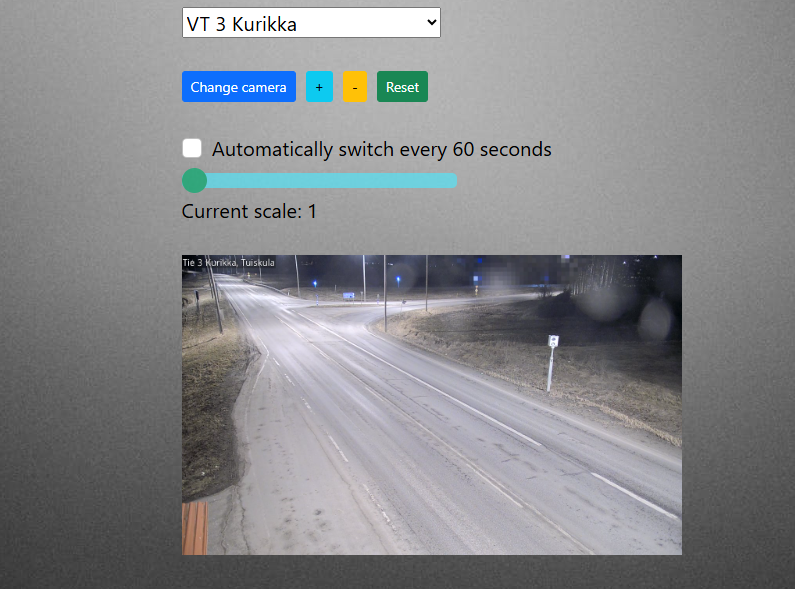
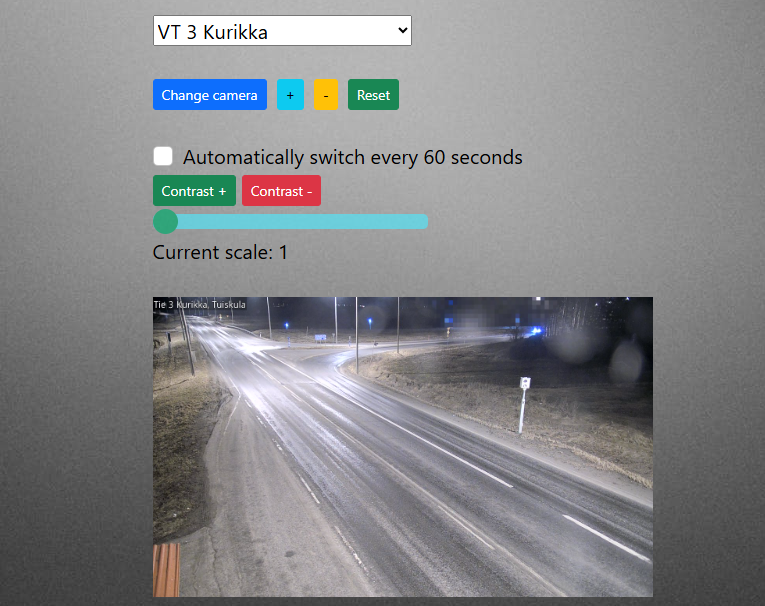
contrast feature added to weather cameras

diff --git a/src/pages/weatherCamera.js b/src/pages/weatherCamera.js
@@ -14,6 +14,8 @@ function WeatherCam() {
     var [camHeight, setCamHeight] = useState(300)
     var [scale, setScale] = useState(1.0)
     var slid = document.getElementById("zoomRng")
+    var [contrast,setContrast]=useState(100)
+    var [hideStopBtn,setHideStopBtn]=useState(true)
     const intervalRef = useRef(null)
    
 
@@ -60,18 +62,10 @@ function WeatherCam() {
     const sliderMove = () => {
         document.getElementById("sliderval").innerText = slid.value
         setScale(scale = slid.value)
-
     }
-    const executeChange = () => {
-        document.getElementById("cameraChange").click()
-
-    }
-
-
-
-
     const automateChange = () => {
 
+        setHideStopBtn(!hideStopBtn)
         intervalRef.current=setInterval(() => {
             document.getElementById("cameraChange").click()
             
@@ -80,6 +74,10 @@ function WeatherCam() {
 
     }
     const stopChange = () => {
+        //poistaa checkboksin valinnan
+        const cb=document.getElementById("automChangeCB")
+        cb.checked=false
+        //pysäyttää intervallin
         clearInterval(intervalRef.current);
         intervalRef.current = null;
     }
@@ -104,7 +102,8 @@ function WeatherCam() {
                 <input class="form-check-input" type="checkbox" id="automChangeCB" onClick={automateChange}></input>
                 <label class="form-check-label" for="automChangeCB">Automatically switch every 60 seconds</label>
             </div>
-            <button onClick={stopChange}>stop</button>
+            <button class="btn btn-success btn-sm" onClick={()=>setContrast(contrast+10)}>Contrast +</button> <button class="btn btn-danger btn-sm" onClick={()=>setContrast(contrast-10)}>Contrast -</button>
+            <button class="btn btn-danger btn-sm" hidden={hideStopBtn} onClick={stopChange}>stop</button>
             <div class="slidecontainer">
                 <input type="range" min="1" max="3" step={0.1} defaultValue={1} class="slider" id="zoomRng" onInput={sliderMove}></input>
                 <br></br>
@@ -112,7 +111,7 @@ function WeatherCam() {
                 <span id="sliderval"></span>
             </div>
             <br></br>
-            <img id="camImg" style={{ transform: "scale(" + scale + ")" }} width={camWidth} height={camHeight} alt="camera" src={'empty'}></img>
+            <img id="camImg" style={{ transform: "scale(" + scale + ")",filter:"contrast("+contrast+"%)"}} width={camWidth} height={camHeight} alt="camera" src={'empty'}></img>
 
         </div>
     )

diff --git a/README.md b/README.md
@@ -109,7 +109,8 @@ An example picture where the user has selected a road camera from the html selec
 
 The user can also zoom in on the weather camera image using the HTML slider component. The slider component has a minimum value of 1, a maximum value of 3, and a step between values of 0.1. The slider component changes the CSS value of the img element's transformation scale. The value is stored in the State variable and passed to the img element's style property.
 
-By selecting the "Switch automatically every 60 seconds" checkbox, the user can automate the camera switching. The timing is implemented using the setInterval method
+By selecting the "Switch automatically every 60 seconds" checkbox, the user can automate the camera switching. The timing is implemented using the setInterval method. The user can adjust the contrast of the weather camera image using the contrast + and contrast - buttons. One click changes the CSS contrast property of the img element by + or -10%.
+
 
 ![alt text](src/images/weatherCam.png)
 
